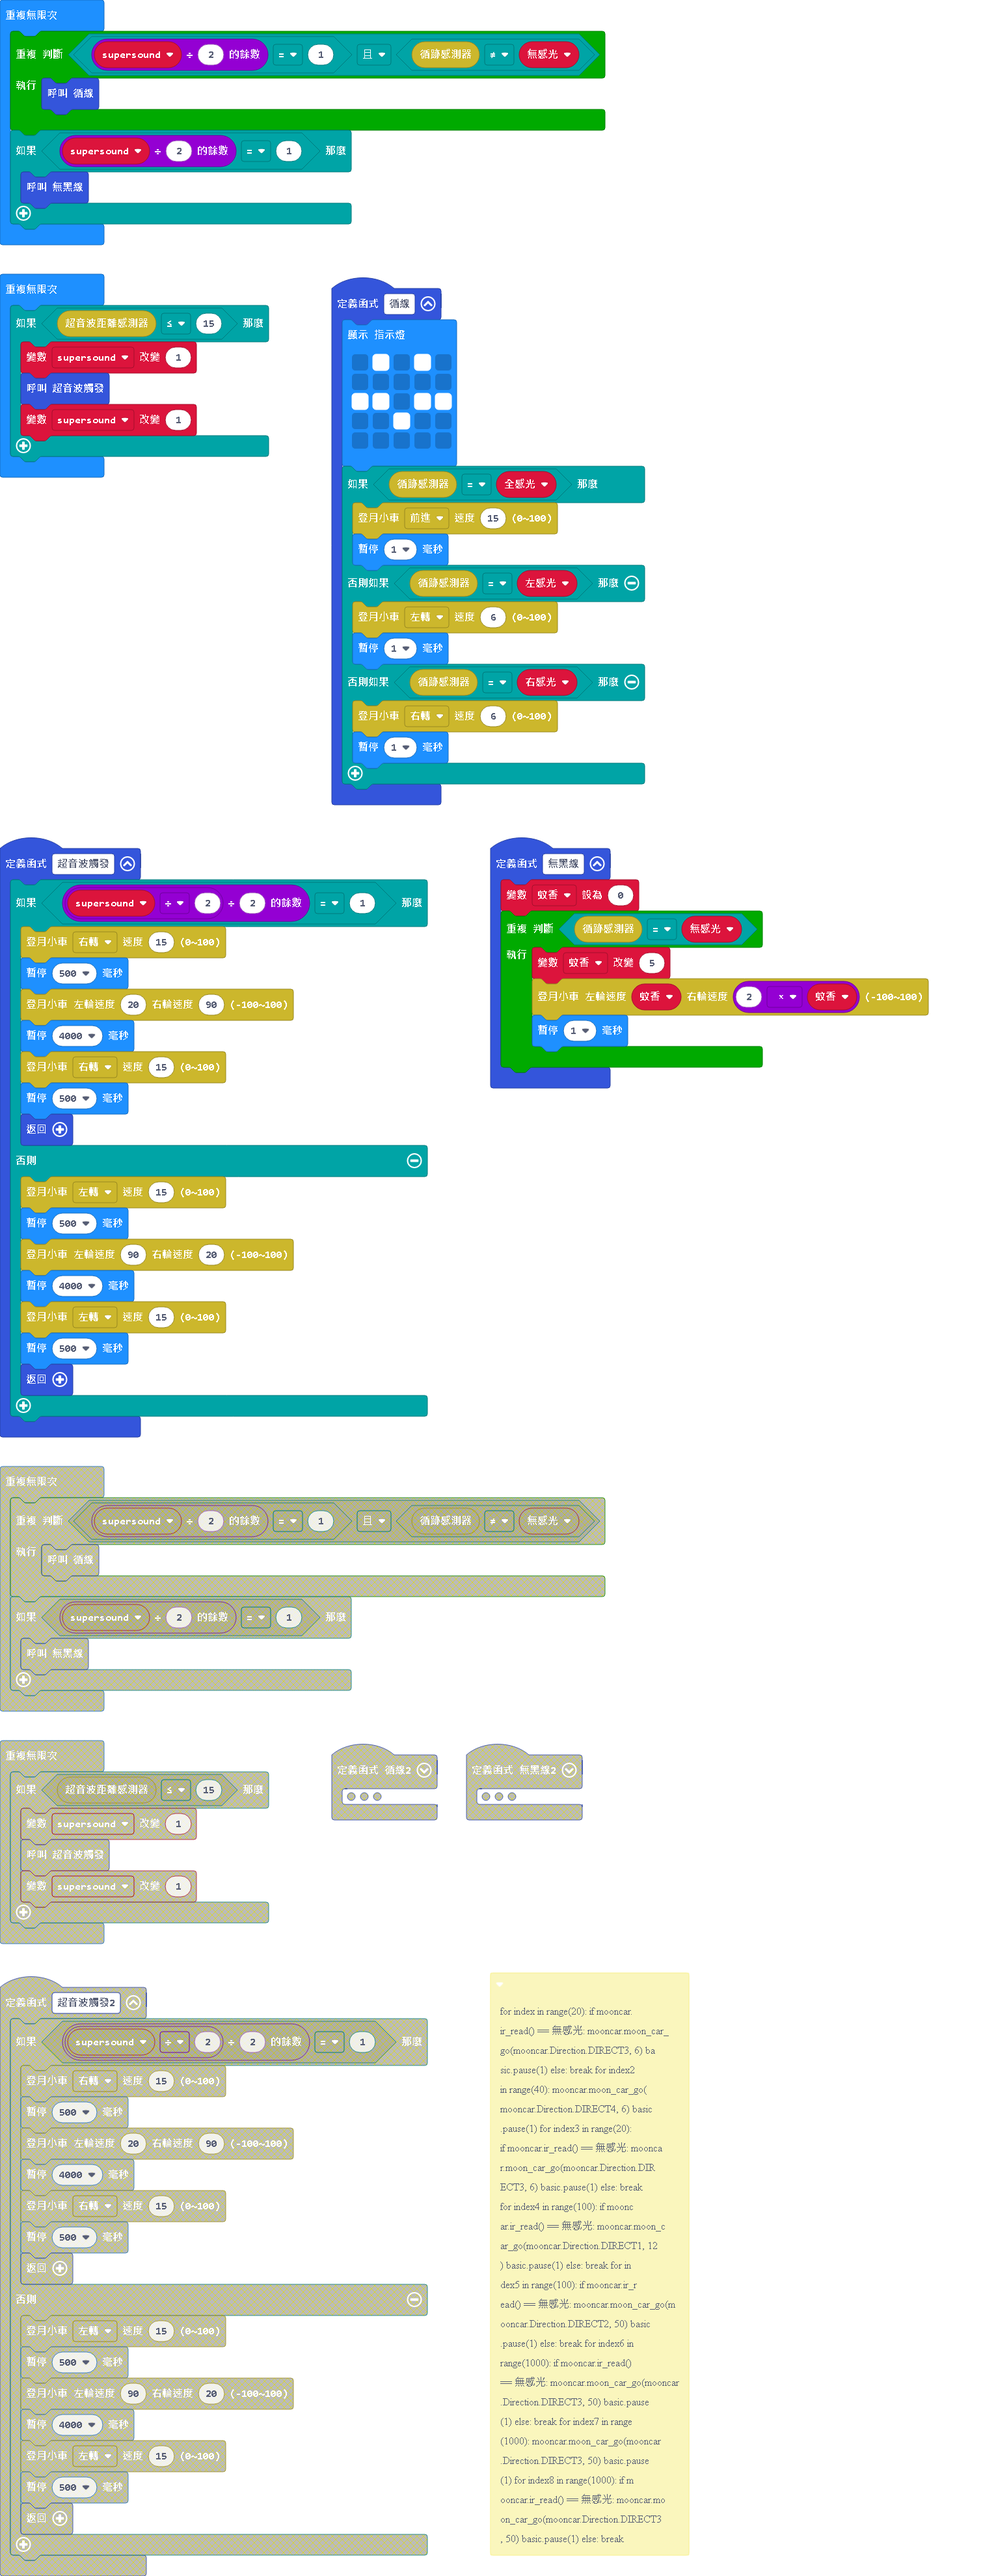
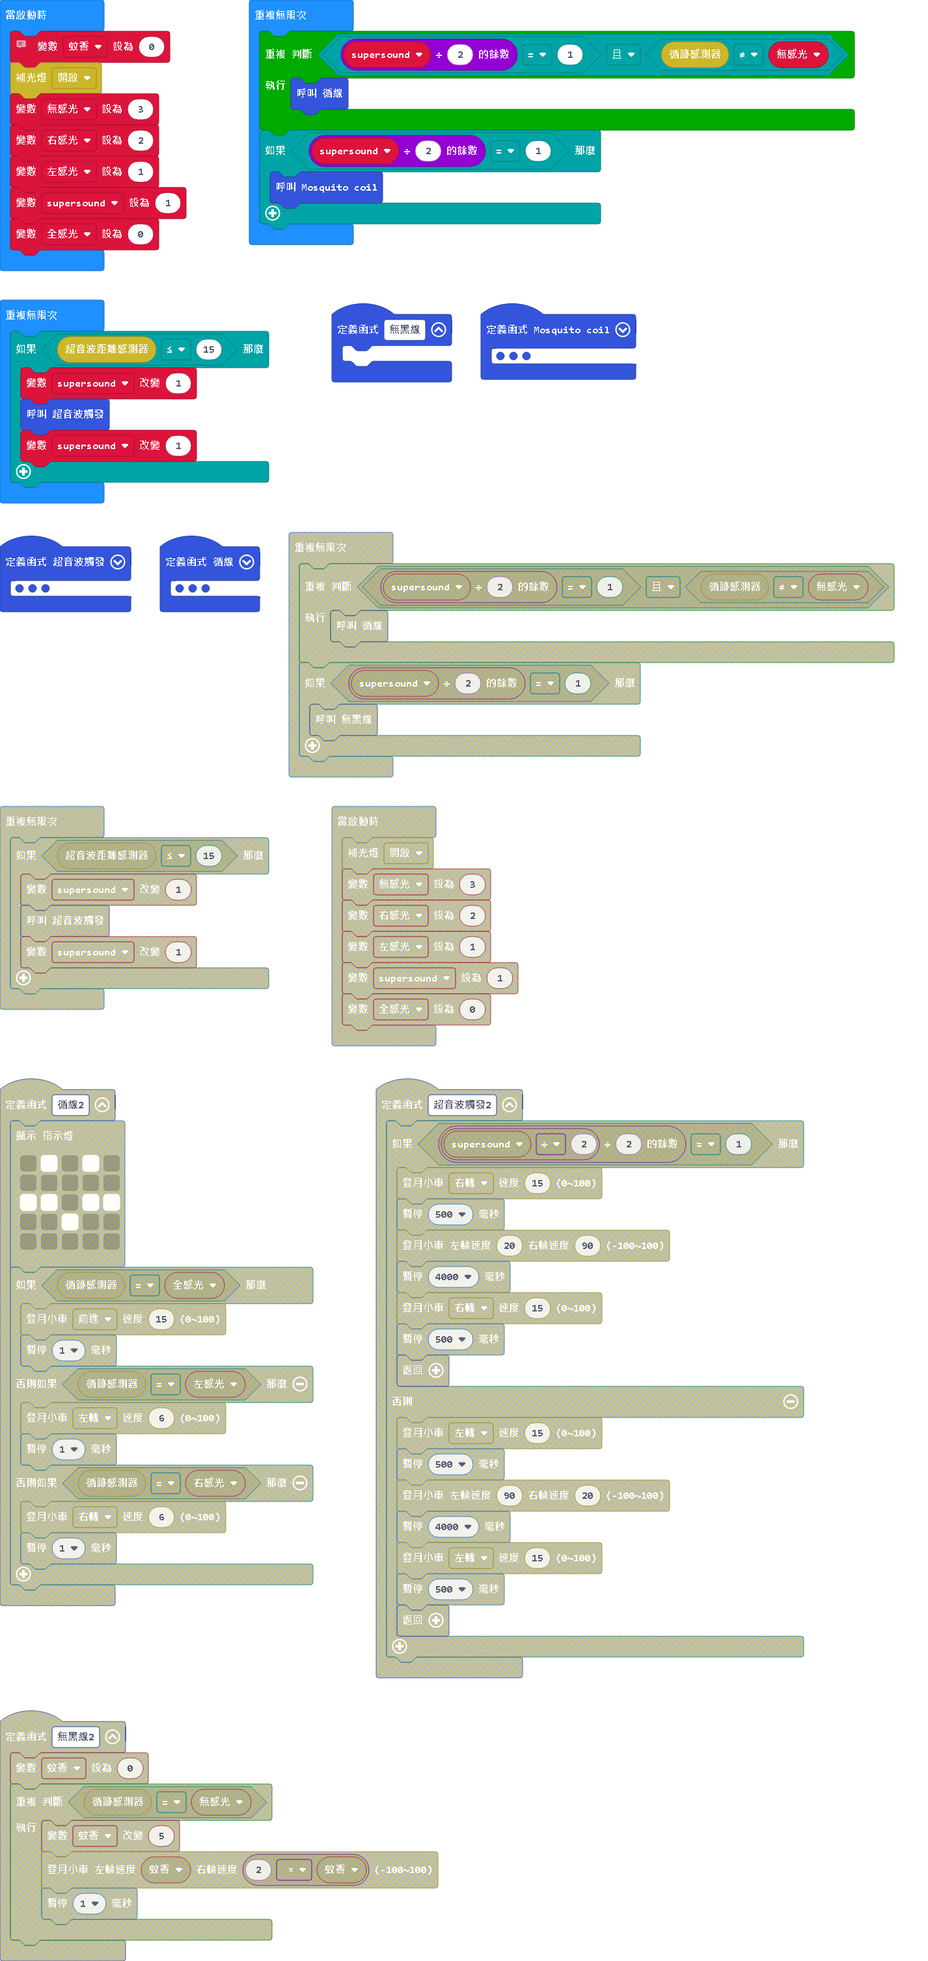
更新 main.blocks, main.ts, main.py

diff --git a/main.ts b/main.ts
@@ -1,3 +1,15 @@
+function Mosquito_coil () {
+    蚊香 = -90
+    while (mooncar.UltrasonicSensor() != 5) {
+        mooncar.MoonCarLR(90, 蚊香)
+        basic.pause(100)
+        if (蚊香 == -89.95) {
+            蚊香 = 0
+        } else {
+            蚊香 += 0.05
+        }
+    }
+}
 function 循線 () {
     basic.showLeds(`
         . # . # .
@@ -37,21 +49,99 @@ function 超音波觸發 () {
     }
 }
 function 無黑線 () {
-    蚊香 = 0
-    while (mooncar.LineFollowerSensor() == 無感光) {
-        蚊香 += 5
-        mooncar.MoonCarLR(蚊香, 2 * 蚊香)
-        basic.pause(1)
-    }
+	
 }
-let 蚊香 = 0
 let 全感光 = 0
 let supersound = 0
 let 左感光 = 0
 let 右感光 = 0
-let 無感光 = 0
+let 蚊香 = 0
+// for index in range(20):
+// 
+// if mooncar.ir_read() == 無感光:
+// 
+// mooncar.moon_car_go(mooncar.Direction.DIRECT3, 6)
+// 
+// basic.pause(1)
+// 
+// else:
+// 
+// break
+// 
+// for index2 in range(40):
+// 
+// mooncar.moon_car_go(mooncar.Direction.DIRECT4, 6)
+// 
+// basic.pause(1)
+// 
+// for index3 in range(20):
+// 
+// if mooncar.ir_read() == 無感光:
+// 
+// mooncar.moon_car_go(mooncar.Direction.DIRECT3, 6)
+// 
+// basic.pause(1)
+// 
+// else:
+// 
+// break
+// 
+// for index4 in range(100):
+// 
+// if mooncar.ir_read() == 無感光:
+// 
+// mooncar.moon_car_go(mooncar.Direction.DIRECT1, 12)
+// 
+// basic.pause(1)
+// 
+// else:
+// 
+// break
+// 
+// for index5 in range(100):
+// 
+// if mooncar.ir_read() == 無感光:
+// 
+// mooncar.moon_car_go(mooncar.Direction.DIRECT2, 50)
+// 
+// basic.pause(1)
+// 
+// else:
+// 
+// break
+// 
+// for index6 in range(1000):
+// 
+// if mooncar.ir_read() == 無感光:
+// 
+// mooncar.moon_car_go(mooncar.Direction.DIRECT3, 50)
+// 
+// basic.pause(1)
+// 
+// else:
+// 
+// break
+// 
+// for index7 in range(1000):
+// 
+// mooncar.moon_car_go(mooncar.Direction.DIRECT3, 50)
+// 
+// basic.pause(1)
+// 
+// for index8 in range(1000):
+// 
+// if mooncar.ir_read() == 無感光:
+// 
+// mooncar.moon_car_go(mooncar.Direction.DIRECT3, 50)
+// 
+// basic.pause(1)
+// 
+// else:
+// 
+// break
+蚊香 = 0
 mooncar.Filllight(mooncar.Switch.Open)
-無感光 = 3
+let 無感光 = 3
 右感光 = 2
 左感光 = 1
 supersound = 1
@@ -61,94 +151,9 @@ basic.forever(function () {
         循線()
     }
     if (supersound % 2 == 1) {
-        無黑線()
+        Mosquito_coil()
     }
 })
-/**
- * for index in range(20):
- * 
- * if mooncar.ir_read() == 無感光:
- * 
- * mooncar.moon_car_go(mooncar.Direction.DIRECT3, 6)
- * 
- * basic.pause(1)
- * 
- * else:
- * 
- * break
- * 
- * for index2 in range(40):
- * 
- * mooncar.moon_car_go(mooncar.Direction.DIRECT4, 6)
- * 
- * basic.pause(1)
- * 
- * for index3 in range(20):
- * 
- * if mooncar.ir_read() == 無感光:
- * 
- * mooncar.moon_car_go(mooncar.Direction.DIRECT3, 6)
- * 
- * basic.pause(1)
- * 
- * else:
- * 
- * break
- * 
- * for index4 in range(100):
- * 
- * if mooncar.ir_read() == 無感光:
- * 
- * mooncar.moon_car_go(mooncar.Direction.DIRECT1, 12)
- * 
- * basic.pause(1)
- * 
- * else:
- * 
- * break
- * 
- * for index5 in range(100):
- * 
- * if mooncar.ir_read() == 無感光:
- * 
- * mooncar.moon_car_go(mooncar.Direction.DIRECT2, 50)
- * 
- * basic.pause(1)
- * 
- * else:
- * 
- * break
- * 
- * for index6 in range(1000):
- * 
- * if mooncar.ir_read() == 無感光:
- * 
- * mooncar.moon_car_go(mooncar.Direction.DIRECT3, 50)
- * 
- * basic.pause(1)
- * 
- * else:
- * 
- * break
- * 
- * for index7 in range(1000):
- * 
- * mooncar.moon_car_go(mooncar.Direction.DIRECT3, 50)
- * 
- * basic.pause(1)
- * 
- * for index8 in range(1000):
- * 
- * if mooncar.ir_read() == 無感光:
- * 
- * mooncar.moon_car_go(mooncar.Direction.DIRECT3, 50)
- * 
- * basic.pause(1)
- * 
- * else:
- * 
- * break
- */
 basic.forever(function () {
     if (mooncar.UltrasonicSensor() <= 15) {
         supersound += 1

diff --git a/main.py b/main.py
@@ -34,61 +34,103 @@ def 超音波觸發():
         return
 def 無黑線():
     global 蚊香
-    蚊香 = 0
-    while mooncar.line_follower_sensor() == 無感光:
-        蚊香 += 5
-        mooncar.moon_car_lr(蚊香, 2 * 蚊香)
-        basic.pause(1)
-'''
-    for index in range(20):
-        if mooncar.ir_read() == 無感光:
-            mooncar.moon_car_go(mooncar.Direction.DIRECT3, 6)
-            basic.pause(1)
+    蚊香 = -90
+    while mooncar.ultrasonic_sensor() != 5:
+        mooncar.moon_car_lr(90, 蚊香)
+        basic.pause(100)
+        if 蚊香 == -89.95:
+            蚊香 = 0
         else:
-            break
-    for index2 in range(40):
-        mooncar.moon_car_go(mooncar.Direction.DIRECT4, 6)
-        basic.pause(1)
-    for index3 in range(20):
-        if mooncar.ir_read() == 無感光:
-            mooncar.moon_car_go(mooncar.Direction.DIRECT3, 6)
-            basic.pause(1)
-        else:
-            break
-    for index4 in range(100):
-        if mooncar.ir_read() == 無感光:
-            mooncar.moon_car_go(mooncar.Direction.DIRECT1, 12)
-            basic.pause(1)
-        else:
-            break
-    for index5 in range(100):
-        if mooncar.ir_read() == 無感光:
-            mooncar.moon_car_go(mooncar.Direction.DIRECT2, 50)
-            basic.pause(1)
-        else:
-            break
-    for index6 in range(1000):
-        if mooncar.ir_read() == 無感光:
-            mooncar.moon_car_go(mooncar.Direction.DIRECT3, 50)
-            basic.pause(1)
-        else:
-            break
-    for index7 in range(1000):
-        mooncar.moon_car_go(mooncar.Direction.DIRECT3, 50)
-        basic.pause(1)
-    for index8 in range(1000):
-        if mooncar.ir_read() == 無感光:
-            mooncar.moon_car_go(mooncar.Direction.DIRECT3, 50)
-            basic.pause(1)
-        else:
-            break
-'''
-蚊香 = 0
+            蚊香 += 0.05
 全感光 = 0
 supersound = 0
 左感光 = 0
 右感光 = 0
-無感光 = 0
+蚊香 = 0
+# for index in range(20):
+# 
+# if mooncar.ir_read() == 無感光:
+# 
+# mooncar.moon_car_go(mooncar.Direction.DIRECT3, 6)
+# 
+# basic.pause(1)
+# 
+# else:
+# 
+# break
+# 
+# for index2 in range(40):
+# 
+# mooncar.moon_car_go(mooncar.Direction.DIRECT4, 6)
+# 
+# basic.pause(1)
+# 
+# for index3 in range(20):
+# 
+# if mooncar.ir_read() == 無感光:
+# 
+# mooncar.moon_car_go(mooncar.Direction.DIRECT3, 6)
+# 
+# basic.pause(1)
+# 
+# else:
+# 
+# break
+# 
+# for index4 in range(100):
+# 
+# if mooncar.ir_read() == 無感光:
+# 
+# mooncar.moon_car_go(mooncar.Direction.DIRECT1, 12)
+# 
+# basic.pause(1)
+# 
+# else:
+# 
+# break
+# 
+# for index5 in range(100):
+# 
+# if mooncar.ir_read() == 無感光:
+# 
+# mooncar.moon_car_go(mooncar.Direction.DIRECT2, 50)
+# 
+# basic.pause(1)
+# 
+# else:
+# 
+# break
+# 
+# for index6 in range(1000):
+# 
+# if mooncar.ir_read() == 無感光:
+# 
+# mooncar.moon_car_go(mooncar.Direction.DIRECT3, 50)
+# 
+# basic.pause(1)
+# 
+# else:
+# 
+# break
+# 
+# for index7 in range(1000):
+# 
+# mooncar.moon_car_go(mooncar.Direction.DIRECT3, 50)
+# 
+# basic.pause(1)
+# 
+# for index8 in range(1000):
+# 
+# if mooncar.ir_read() == 無感光:
+# 
+# mooncar.moon_car_go(mooncar.Direction.DIRECT3, 50)
+# 
+# basic.pause(1)
+# 
+# else:
+# 
+# break
+蚊香 = 0
 mooncar.filllight(mooncar.Switch.OPEN)
 無感光 = 3
 右感光 = 2
